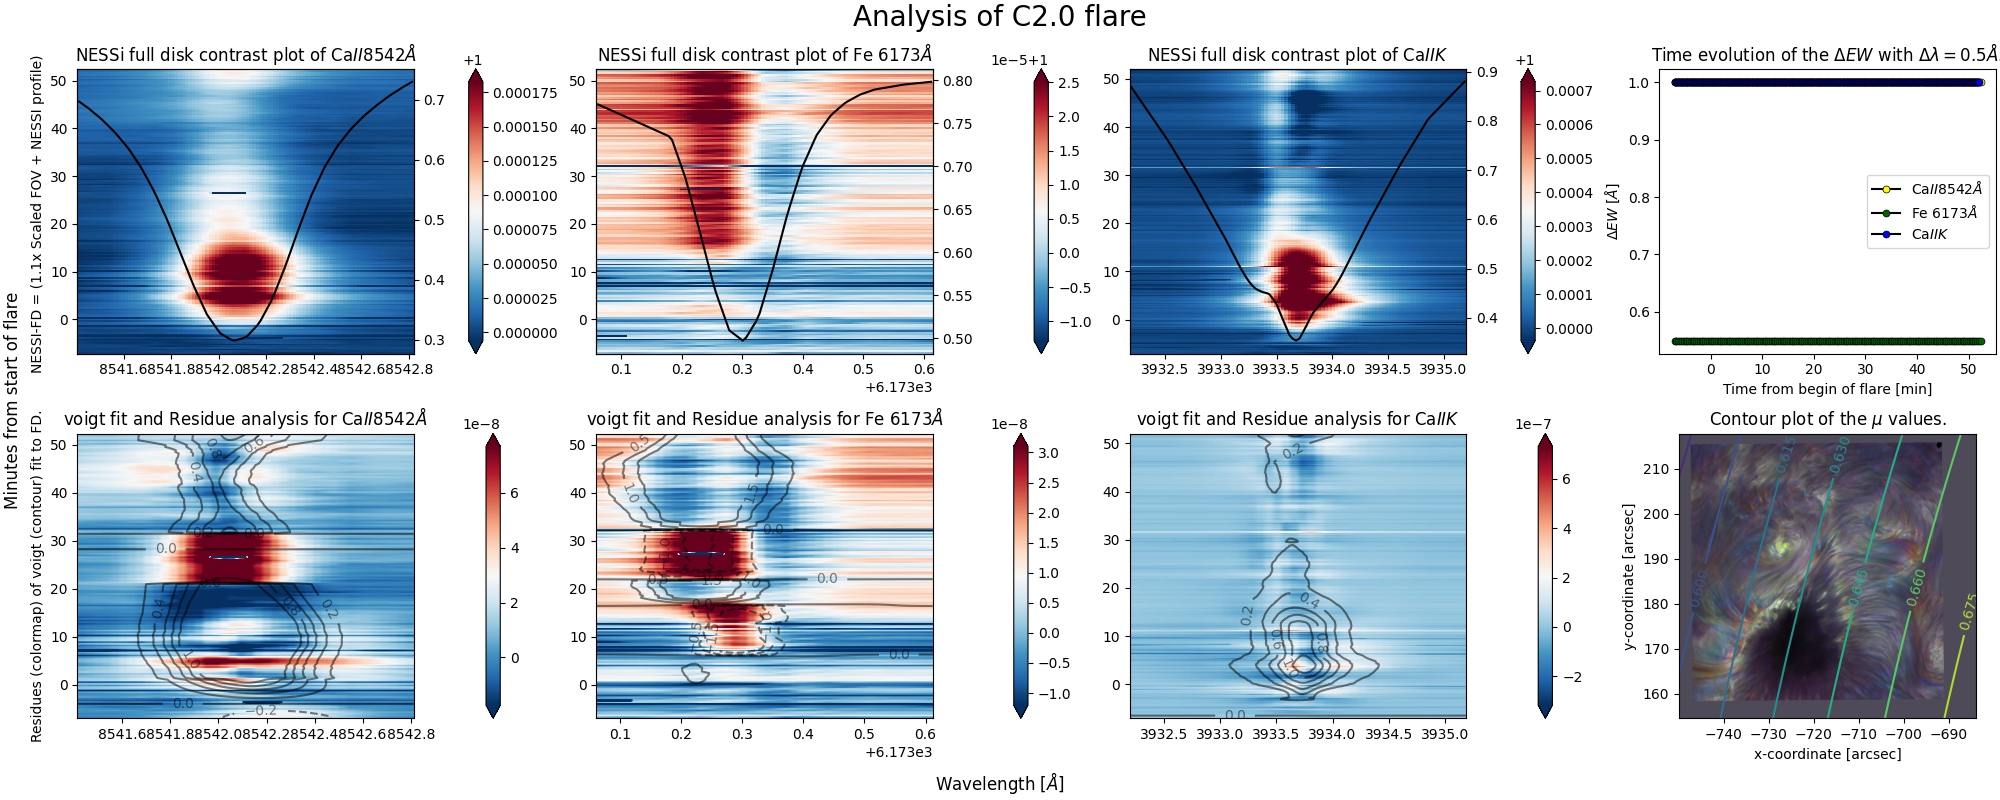
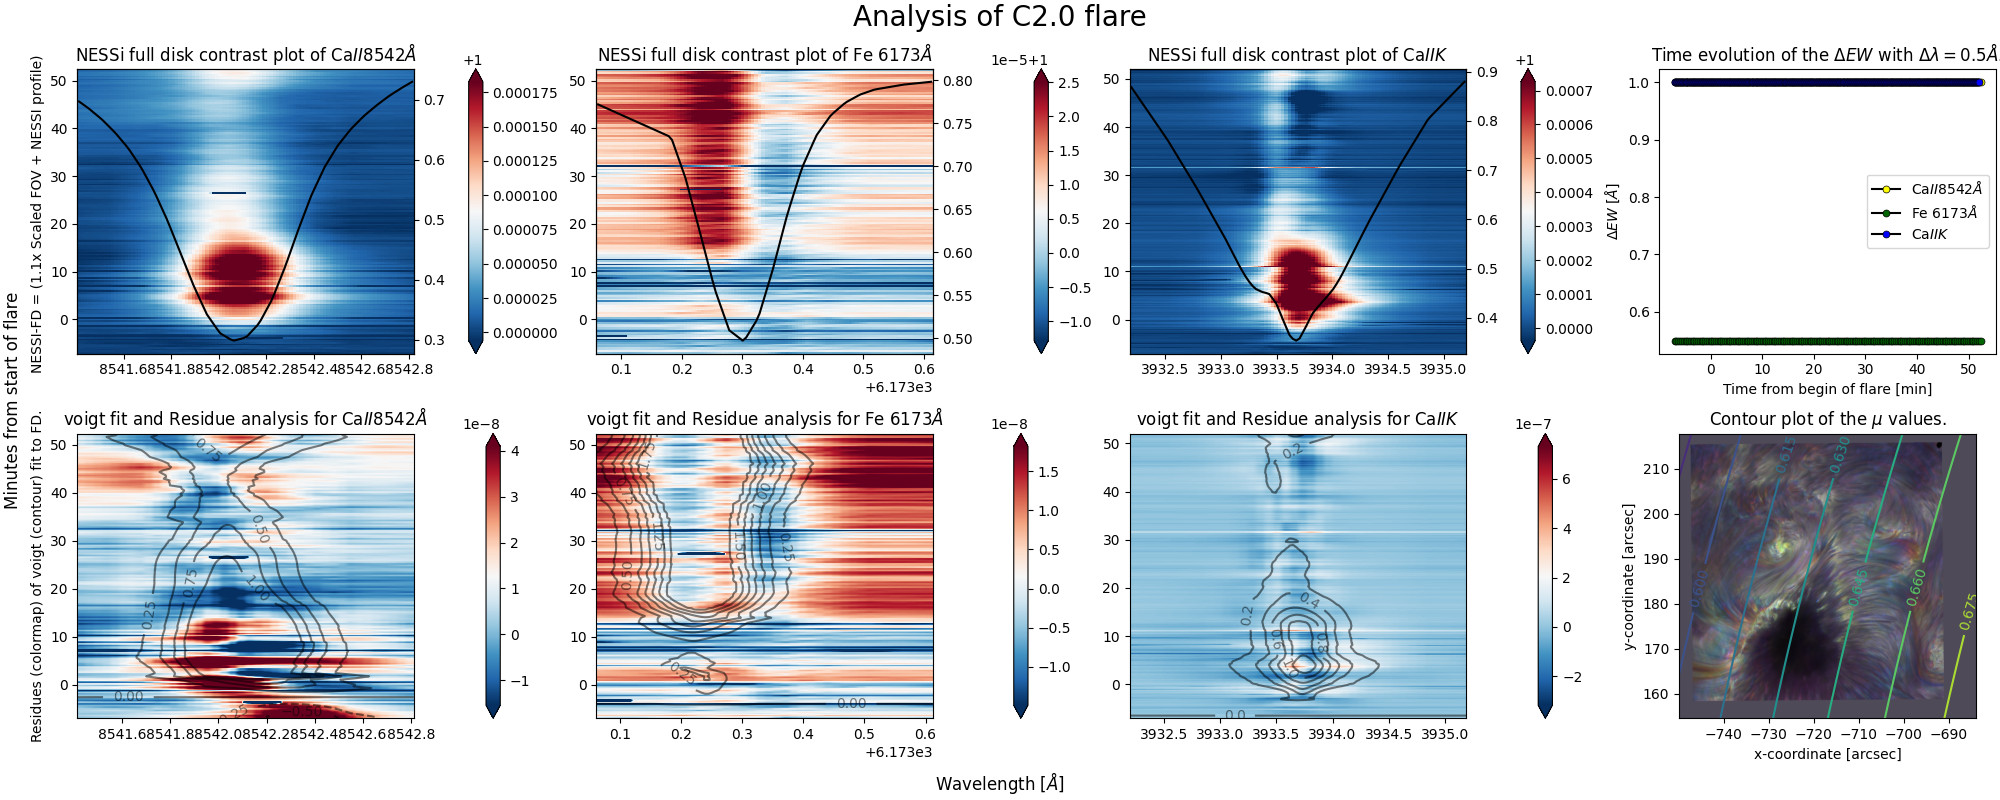
Acceptable problematic fits

Changed region(s): [[0.279, 0.5312, 0.465, 0.9062], [0.031, 0.5312, 0.217, 0.9062]]

diff --git a/data/voigt_fitting/voigt_fit.py b/data/voigt_fitting/voigt_fit.py
@@ -119,9 +119,10 @@ def average_last_of_params(params, num=5, initial_guess=None, fix_ind=[]):
         k = [p[0] for p in params[-num : ]]
     if initial_guess is not None:
         k.append(initial_guess)
-    guess= np.average(np.array(k), axis=0)
+    guess= np.nanmean(np.array(k), axis=0)
     for ind in fix_ind:
         guess[ind] = initial_guess[ind]
+    print(initial_guess, guess)
     return guess
 
 def retreive_initial_guess(initial_guess, frame, many_guesses=True):
@@ -260,7 +261,7 @@ def make_analysis(name, data, initial_guess, plot_rate=50, offset=0, neglect_poi
     # print(np.shape(wav), np.shape(np.delete(wav, neglect_points, axis=0)), wav, np.delete(wav, neglect_points, axis=0))
     # print(np.shape(DFOV+offset), np.shape(np.delete(DFOV+offset, neglect_points, axis=1)), DFOV+offset, np.delete(DFOV+offset, neglect_points, axis=1))
     params, voigt, res = contrast_fit_voigt(wav, contr+offset, initial_guess, time, plot_rate, 
-                                              neglect_points, fix_ind, quiet_frames=quiet_frames, hard_fix=hard_fix)
+                                              neglect_points, fix_ind, quiet_frames=quiet_frames, exclude_frames=exclude_frames, hard_fix=hard_fix)
     visualize_analysis(res, voigt, wav, time, name)
     save_voigt_fits(name, params, res)
         
